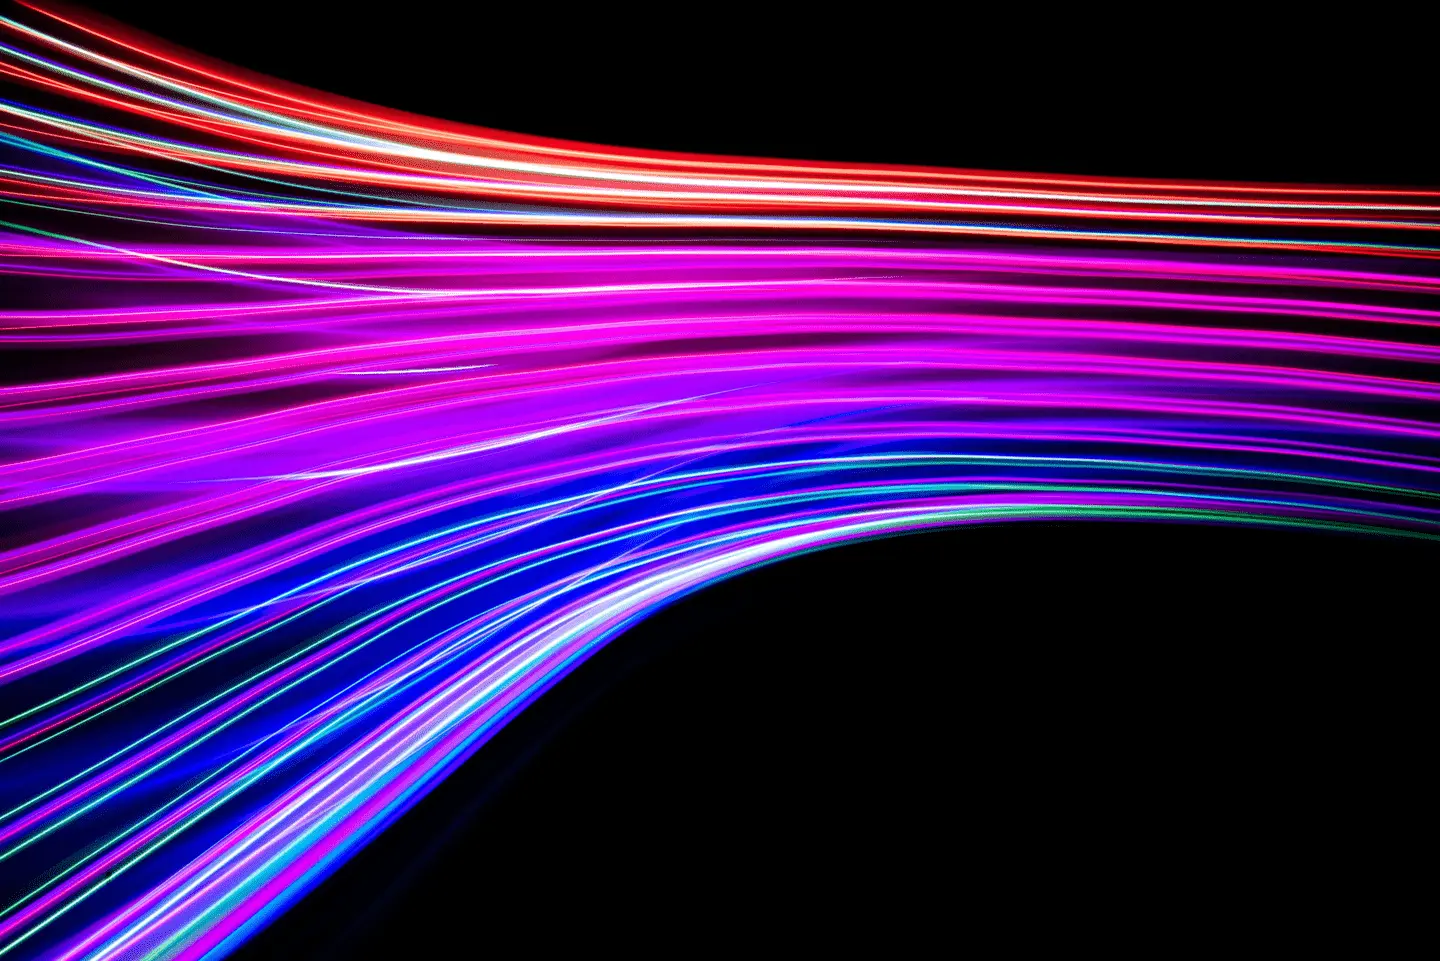
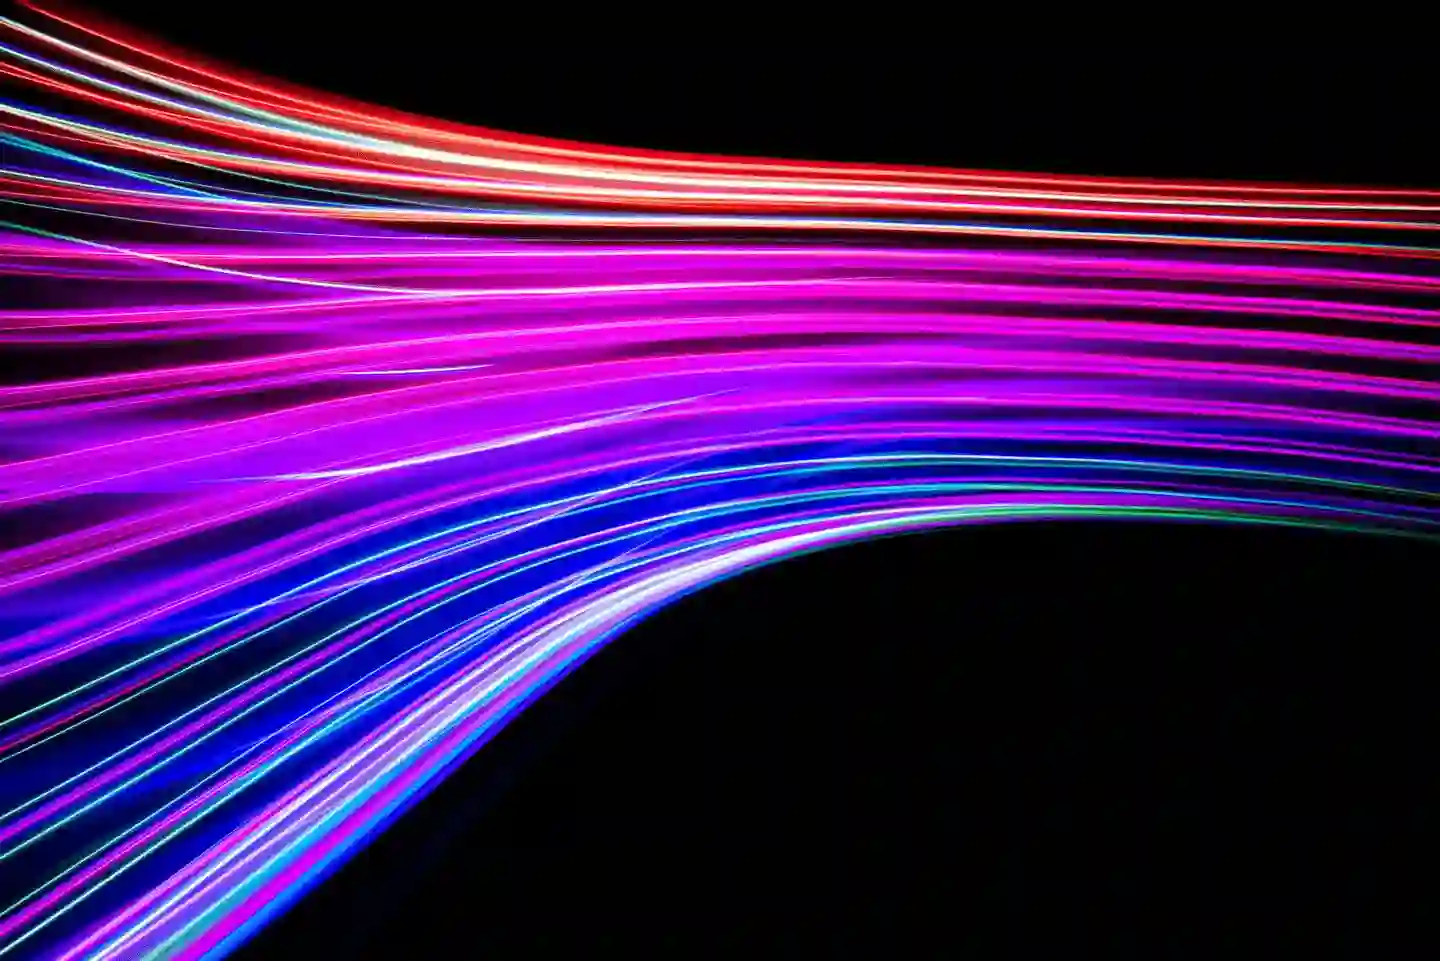
feat: 원본 큰 이미지 제거

Changed region(s): [[0.0, 0.0, 1.0, 1.0], [0.625, 0.3746, 0.7188, 0.4058], [0.5312, 0.3746, 0.5625, 0.4058]]

diff --git a/src/pages/Home/Home.tsx b/src/pages/Home/Home.tsx
@@ -2,7 +2,7 @@ import { useRef } from 'react';
 import { Link } from 'react-router-dom';
 import classNames from 'classnames/bind';
 
-import { HeroOriginal, HeroDesktop, HeroMobile } from '../../assets/images/hero';
+import { HeroDesktop, HeroMobile } from '../../assets/images/hero';
 import { Trending, Find, Free } from '../../assets/images/video';
 
 import FeatureItem from './components/FeatureItem/FeatureItem';
@@ -22,11 +22,17 @@ const Home = () => {
         <picture>
           <source
             type="image/webp"
-            src={HeroOriginal}
-            srcSet={`${HeroMobile} 768w, ${HeroDesktop} 1440w, ${HeroOriginal} 4100w`}
-            sizes="(max-width:768px) 100vw, (max-width:1440px) 100vw, 100vw"
+            src={HeroDesktop}
+            srcSet={`${HeroMobile} 768w, ${HeroDesktop} 1440w`}
+            sizes="(max-width:768px) 100vw, 100vw"
           />
-          <img className={styles.heroImage} src={HeroOriginal} alt="hero image" />
+          <img
+            className={styles.heroImage}
+            src={HeroDesktop}
+            alt="hero image"
+            width="1440"
+            height="960"
+          />
         </picture>
 
         <div className={styles.projectTitle}>

diff --git a/src/assets/images/hero/index.ts b/src/assets/images/hero/index.ts
@@ -1,3 +1,2 @@
-export { default as HeroOriginal } from './hero.webp';
 export { default as HeroDesktop } from './hero_desktop.webp';
 export { default as HeroMobile } from './hero_mobile.webp';
